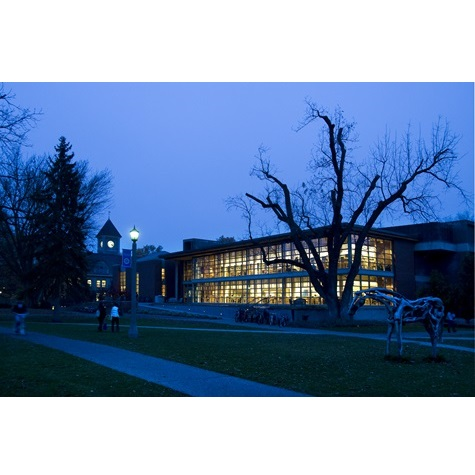
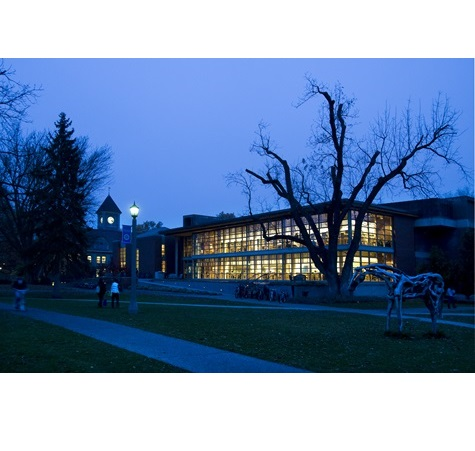
deploy: Penrose-Library/PenroseLibrary-Web@31b29110b91e818fd001d1c695689503836903ca

Changed region(s): [[0.0, 0.1242, 1.0, 0.8381], [0.0589, 0.5277, 0.0884, 0.5588]]

diff --git a/guides/index.html b/guides/index.html
@@ -364,7 +364,7 @@
     
     
     
-    <button aria-expanded="false" data-expands="js-expandable-197321220625e41241cc06d2d9a0e56a">
+    <button aria-expanded="false" data-expands="js-expandable-a6e12c9407e250422610293615cdd1a2">
      <h2>Subject Guides: Resources for every area of study</h2>
       <svg aria-hidden="true" focusable="false" viewBox="0 0 70.866142 70.866141">
         <g transform="translate(0 -981.5)">
@@ -374,7 +374,7 @@
       </svg>
     </button>
 
-  <div id="js-expandable-197321220625e41241cc06d2d9a0e56a" hidden>
+  <div id="js-expandable-a6e12c9407e250422610293615cdd1a2" hidden>
     <script>springshare_widget_config_1625005695222 = { path: 'guides' };</script><div id="s-lg-widget-1625005695222"></div><script>!function(d,s,id){var js,fjs=d.getElementsByTagName(s)[0],p=/^http:/.test(d.location)?'http':'https';if(!d.getElementById(id)){js=d.createElement(s);js.id=id;js.src=p+"://lgapi-us.libapps.com/widgets.php?site_id=689&widget_type=1&search_terms=&search_match=2&sort_by=name&list_format=1&drop_text=Select+a+Guide...&output_format=1&load_type=2&enable_description=0&enable_group_search_limit=0&enable_subject_search_limit=0&guide_types%5B0%5D=3&widget_title=Guide+List&widget_height=250&widget_width=100%25&widget_link_color=2954d1&widget_embed_type=1&num_results=0&enable_more_results=1&window_target=2&config_id=1625005695222";fjs.parentNode.insertBefore(js,fjs);}}(document,"script","s-lg-widget-script-1625005695222");</script>
 
   </div>
@@ -387,7 +387,7 @@
     
     
     
-    <button aria-expanded="false" data-expands="js-expandable-c597ed9fc72a743d2d006436d8866170">
+    <button aria-expanded="false" data-expands="js-expandable-286c8d77d6705194d933cfde762040a6">
      <h2>Course Guides: Resources for specific classes</h2>
       <svg aria-hidden="true" focusable="false" viewBox="0 0 70.866142 70.866141">
         <g transform="translate(0 -981.5)">
@@ -397,7 +397,7 @@
       </svg>
     </button>
 
-  <div id="js-expandable-c597ed9fc72a743d2d006436d8866170" hidden>
+  <div id="js-expandable-286c8d77d6705194d933cfde762040a6" hidden>
     <script>springshare_widget_config_1625005740371 = { path: 'guides' };</script><div id="s-lg-widget-1625005740371"></div><script>!function(d,s,id){var js,fjs=d.getElementsByTagName(s)[0],p=/^http:/.test(d.location)?'http':'https';if(!d.getElementById(id)){js=d.createElement(s);js.id=id;js.src=p+"://lgapi-us.libapps.com/widgets.php?site_id=689&widget_type=1&search_terms=&search_match=2&sort_by=name&list_format=1&drop_text=Select+a+Guide...&output_format=1&load_type=2&enable_description=0&enable_group_search_limit=0&enable_subject_search_limit=0&guide_types%5B0%5D=2&widget_title=Guide+List&widget_height=250&widget_width=100%25&widget_link_color=2954d1&widget_embed_type=1&num_results=0&enable_more_results=1&window_target=2&config_id=1625005740371";fjs.parentNode.insertBefore(js,fjs);}}(document,"script","s-lg-widget-script-1625005740371");</script>
 
   </div>
@@ -410,7 +410,7 @@
     
     
     
-    <button aria-expanded="true" data-expands="js-expandable-b8e433e4c3b01b2d328c2921b20f9778">
+    <button aria-expanded="true" data-expands="js-expandable-2981cbd823b8befbe033312790c44722">
      <h2>General Guides</h2>
       <svg aria-hidden="true" focusable="false" viewBox="0 0 70.866142 70.866141">
         <g transform="translate(0 -981.5)">
@@ -420,7 +420,7 @@
       </svg>
     </button>
 
-  <div id="js-expandable-b8e433e4c3b01b2d328c2921b20f9778" >
+  <div id="js-expandable-2981cbd823b8befbe033312790c44722" >
     <p><a href="https://libguides.whitman.edu/c.php?g=1351470">Research 101</a> How to get started on your research and take advantage of everything Penrose has to offer.</p>
 <p><a href="https://libguides.whitman.edu/citations">Citation Styles and Tools</a> Information and examples for every major citation style used at Whitman.</p>
 <ul>

diff --git a/map/index.html b/map/index.html
@@ -364,7 +364,7 @@
     
     
     
-    <button aria-expanded="false" data-expands="js-expandable-a7b9d32194d17056cebc49f0dd36efd1">
+    <button aria-expanded="false" data-expands="js-expandable-0a5967db1ed94d73bd0f46c9d2c1e31f">
      <h2>First Floor</h2>
       <svg aria-hidden="true" focusable="false" viewBox="0 0 70.866142 70.866141">
         <g transform="translate(0 -981.5)">
@@ -374,7 +374,7 @@
       </svg>
     </button>
 
-  <div id="js-expandable-a7b9d32194d17056cebc49f0dd36efd1" hidden>
+  <div id="js-expandable-0a5967db1ed94d73bd0f46c9d2c1e31f" hidden>
     <img src="/images/map/library-map-v2021-01_FirstFloor.svg" alt="First Floor Penrose Library" title="First Floor Penrose Library">
   </div>
 </div>
@@ -386,7 +386,7 @@
     
     
     
-    <button aria-expanded="true" data-expands="js-expandable-c27632db04817053333956ff4d7ee7fc">
+    <button aria-expanded="true" data-expands="js-expandable-8263fd374971f0f2c5b063c73e3d7e54">
      <h2>Second Floor</h2>
       <svg aria-hidden="true" focusable="false" viewBox="0 0 70.866142 70.866141">
         <g transform="translate(0 -981.5)">
@@ -396,7 +396,7 @@
       </svg>
     </button>
 
-  <div id="js-expandable-c27632db04817053333956ff4d7ee7fc" >
+  <div id="js-expandable-8263fd374971f0f2c5b063c73e3d7e54" >
     <img src="/images/map/library-map-v2021-01_SecondFloor.svg" alt="Second Floor Penrose Library" title="Second Floor Penrose Library">
   </div>
 </div>
@@ -408,7 +408,7 @@
     
     
     
-    <button aria-expanded="false" data-expands="js-expandable-8f2aac339f852439cf883218726f1ec1">
+    <button aria-expanded="false" data-expands="js-expandable-c812983361e8332fc2f1a7a895fc842f">
      <h2>Third Floor</h2>
       <svg aria-hidden="true" focusable="false" viewBox="0 0 70.866142 70.866141">
         <g transform="translate(0 -981.5)">
@@ -418,7 +418,7 @@
       </svg>
     </button>
 
-  <div id="js-expandable-8f2aac339f852439cf883218726f1ec1" hidden>
+  <div id="js-expandable-c812983361e8332fc2f1a7a895fc842f" hidden>
     <img src="/images/map/library-map-v2021-01_ThirdFloor.svg" alt="Third Floor Penrose Library" title="Third Floor Penrose Library">
   </div>
 </div>
@@ -430,7 +430,7 @@
     
     
     
-    <button aria-expanded="false" data-expands="js-expandable-81c7857704c587a390c55ab58219b1af">
+    <button aria-expanded="false" data-expands="js-expandable-57b0a21b97981a577c55451ac8c880f3">
      <h2>Fourth Floor</h2>
       <svg aria-hidden="true" focusable="false" viewBox="0 0 70.866142 70.866141">
         <g transform="translate(0 -981.5)">
@@ -440,7 +440,7 @@
       </svg>
     </button>
 
-  <div id="js-expandable-81c7857704c587a390c55ab58219b1af" hidden>
+  <div id="js-expandable-57b0a21b97981a577c55451ac8c880f3" hidden>
     <img src="/images/map/library-map-v2021-01_FourthFloor.svg" alt="Fourth Floor Penrose Library" title="Fourth Floor Penrose Library">
   </div>
 </div>

diff --git a/index.html b/index.html
@@ -455,7 +455,7 @@ Running into errors on library links? Check out our <a href="https://library.whi
            
             
     <div id="blog-jacket">
-         <img class="responsive-img" src="/uploads/untitled2.jpg" alt="Looking onto Penrose from Ankeny at dusk" style="max-width:475px"/>
+         <img class="responsive-img" src="/uploads/untitled2.jpg" alt="Looking onto Penrose from Ankeny at dusk" />
     </div>
     <div class="jacket-title">
         <a href="https://library.whitman.edu/blog/2025-05-15-finals-hours/">Finals Hours</a>
